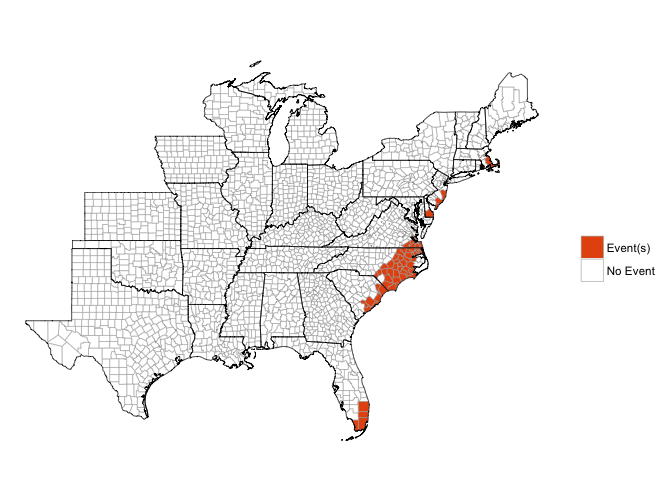
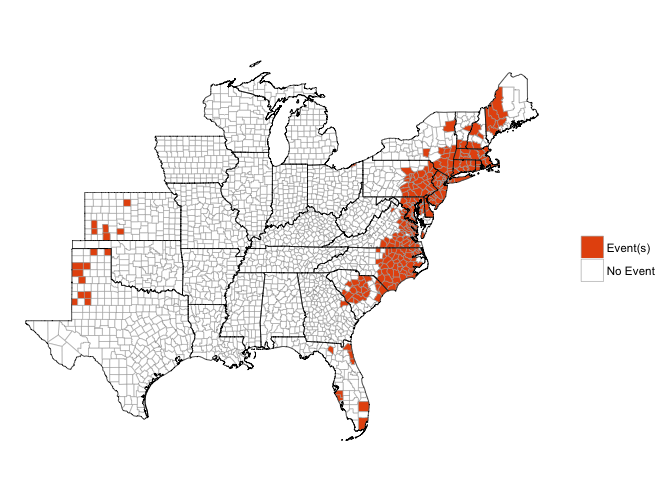
Update README

diff --git a/README.md b/README.md
@@ -25,38 +25,115 @@ Here are some examples:
 Mapping all counties that had at least one event over a date range:
 
 ``` r
-map_events(date_range = c("1999-10-15", "1999-10-20"))
+map_events(date_range = c("1999-09-14", "1999-09-18"))
 ```
 
 ![](README-unnamed-chunk-3-1.png)
 
+Creating a dataframe of all events within a date range:
+
+``` r
+oct_1999_events <- find_events(date_range = c("1999-09-14", "1999-09-18"))
+head(oct_1999_events)
+#> # A tibble: 6 × 5
+#>   begin_date   end_date  fips CZ_TYPE        type
+#>       <date>     <date> <chr>   <chr>       <chr>
+#> 1 1999-09-16 1999-09-17 25011       C  Heavy Rain
+#> 2 1999-09-16 1999-09-17 25001       C  Heavy Rain
+#> 3 1999-09-16 1999-09-17 25015       C  Heavy Rain
+#> 4 1999-09-17 1999-09-17 99113       C       Flood
+#> 5 1999-09-18 1999-09-18 12081       C  Waterspout
+#> 6 1999-09-16 1999-09-16 24025       C Flash Flood
+```
+
+Creating a dataframe of all events within a certain time and distance from a hurricane track:
+
+``` r
+floyd_events <- find_events(storm = "Floyd-1999", dist_limit = 200)
+head(floyd_events)
+#> # A tibble: 6 × 5
+#>   begin_date   end_date  fips CZ_TYPE        type
+#>       <date>     <date> <chr>   <chr>       <chr>
+#> 1 1999-09-16 1999-09-17 25011       C  Heavy Rain
+#> 2 1999-09-16 1999-09-17 25001       C  Heavy Rain
+#> 3 1999-09-16 1999-09-17 25015       C  Heavy Rain
+#> 4 1999-09-16 1999-09-16 24025       C Flash Flood
+#> 5 1999-09-16 1999-09-16 24005       C Flash Flood
+#> 6 1999-09-16 1999-09-16 24510       C Flash Flood
+```
+
+Here is an example summary of this data:
+
+``` r
+floyd_events %>%
+  group_by(type) %>%
+  summarize(n = n()) %>%
+  arrange(desc(n)) %>%
+  knitr::kable(colnames = c("Event type", "Number of events"),
+               caption = "NOAA Storm Events within 200 km and [x] days of Hurricane Floyd.")
+```
+
+| type              |    n|
+|:------------------|----:|
+| Flash Flood       |  207|
+| Heavy Rain        |   26|
+| Tornado           |   17|
+| Storm Surge/Tide  |    5|
+| Funnel Cloud      |    2|
+| Thunderstorm Wind |    2|
+| Waterspout        |    1|
+
+Here is another example summary:
+
+``` r
+floyd_events %>%
+  group_by(fips) %>%
+  summarize(n = n(),
+            events = paste(type, collapse = ", ")) %>%
+  arrange(desc(n)) %>%
+  slice(1:10) %>%
+  knitr::kable()
+```
+
+| fips  |    n| events                                                                     |
+|:------|----:|:---------------------------------------------------------------------------|
+| 37137 |    7| Flash Flood, Tornado, Tornado, Funnel Cloud, Tornado, Tornado, Flash Flood |
+| 37031 |    6| Flash Flood, Tornado, Tornado, Flash Flood, Tornado, Thunderstorm Wind     |
+| 09003 |    4| Flash Flood, Flash Flood, Heavy Rain, Flash Flood                          |
+| 37133 |    4| Flash Flood, Flash Flood, Funnel Cloud, Tornado                            |
+| 37013 |    3| Flash Flood, Waterspout, Flash Flood                                       |
+| 37049 |    3| Flash Flood, Flash Flood, Tornado                                          |
+| 37117 |    3| Flash Flood, Flash Flood, Flash Flood                                      |
+| 37129 |    3| Tornado, Tornado, Flash Flood                                              |
+| 37147 |    3| Flash Flood, Tornado, Flash Flood                                          |
+| 37187 |    3| Flash Flood, Flash Flood, Tornado                                          |
+
 Mapping any county with at least one tropical storm-related event, not restricting to only the eastern half of the country:
 
 ``` r
-map_events(date_range = c("1999-10-16", "1999-10-18"),
-    east_only = FALSE, ts_only = TRUE)
+map_events(storm = "Floyd-1999", dist_limit = 200,
+           east_only = FALSE, ts_only = TRUE)
 ```
 
-![](README-unnamed-chunk-4-1.png)
+![](README-unnamed-chunk-8-1.png)
 
 Mapping the number of events in each county within a certain date range:
 
 ``` r
-map_events(date_range = c("1999-10-16", "1999-10-18"),
-    plot_type = "number of events")
+map_events(storm = "Floyd-1999", dist_limit = 200,
+           plot_type = "number of events")
 ```
 
-![](README-unnamed-chunk-5-1.png)
+![](README-unnamed-chunk-9-1.png)
 
 Mapping the number of events, but only counting counties that were within 100 kilometers of the track of Hurricane Floyd in 1999, with the hurricane's track added to the plot:
 
 ``` r
 map_events(storm = "Floyd-1999", dist_limit = 100, 
-           date_range = c("1999-10-16", "1999-10-18"),
            add_tracks = TRUE, plot_type = "number of events")
 ```
 
-![](README-unnamed-chunk-6-1.png)
+![](README-unnamed-chunk-10-1.png)
 
 Mapping the number of all events that happened under the influence of Hurricane Floyd in 1999, with the hurricane's track added to the plot::
 
@@ -65,7 +142,7 @@ map_events(storm = "Floyd-1999", dist_limit = 100, add_tracks = TRUE,
            plot_type = "number of events")
 ```
 
-![](README-unnamed-chunk-7-1.png)
+![](README-unnamed-chunk-11-1.png)
 
 Details of how the package works
 --------------------------------
